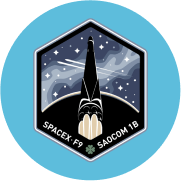
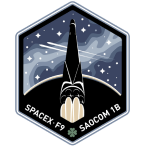
update svg and hover
1

diff --git a/scss/index.scss b/scss/index.scss
@@ -54,6 +54,19 @@ header {
 		align-items: flex-start;
 		&__image {
 			margin-right: 6rem;
+			border-radius: 50%;
+			padding: 2rem;
+			background: rgba(23, 161, 204, 0.7);
+			img {
+				transition: 5s;
+				&:hover {
+					-webkit-transform: scale(1.1);
+					   -moz-transform: scale(1.1);
+					    -ms-transform: scale(1.1);
+					     -o-transform: scale(1.1);
+					        transform: scale(1.1);
+				}
+			}
 		}
 		&-content {
 			font-weight: 400;
@@ -78,6 +91,13 @@ header {
 					align-items: center;
 					svg {
 						margin-right: 1.5rem;
+						path {
+							transition: .4s;
+						}
+						&:hover path{
+							fill: #ffffff;
+							cursor: pointer;
+						}
 					}
 				}
 			}

diff --git a/css/index.css b/css/index.css
@@ -54,6 +54,15 @@ header .title span {
 }
 .main-item__image {
   margin-right: 6rem;
+  border-radius: 50%;
+  padding: 2rem;
+  background: rgba(23, 161, 204, 0.7);
+}
+.main-item__image img {
+  transition: 5s;
+}
+.main-item__image img:hover {
+  transform: scale(1.1);
 }
 .main-item-content {
   font-weight: 400;
@@ -81,4 +90,11 @@ header .title span {
 }
 .main-item-content-panel > div svg {
   margin-right: 1.5rem;
+}
+.main-item-content-panel > div svg path {
+  transition: 0.4s;
+}
+.main-item-content-panel > div svg:hover path {
+  fill: #ffffff;
+  cursor: pointer;
 }

diff --git a/index.html b/index.html
@@ -32,7 +32,9 @@
 			<div class="main-list">
 				<div class="main-item row" v-for="value in missions">
 					
-					<img v-if="value.image" :src="value.image" class="main-item__image" alt="Image"/>
+					<div class="circle main-item__image">
+						<img v-if="value.image" :src="value.image" alt="Image"/>
+					</div>
 					<div class="main-item-content">
 						<div class="main-item-content__number">{{ value.number }}</div>
 						<h2 class="main-item-content__title">{{ value.title }}</h2>
